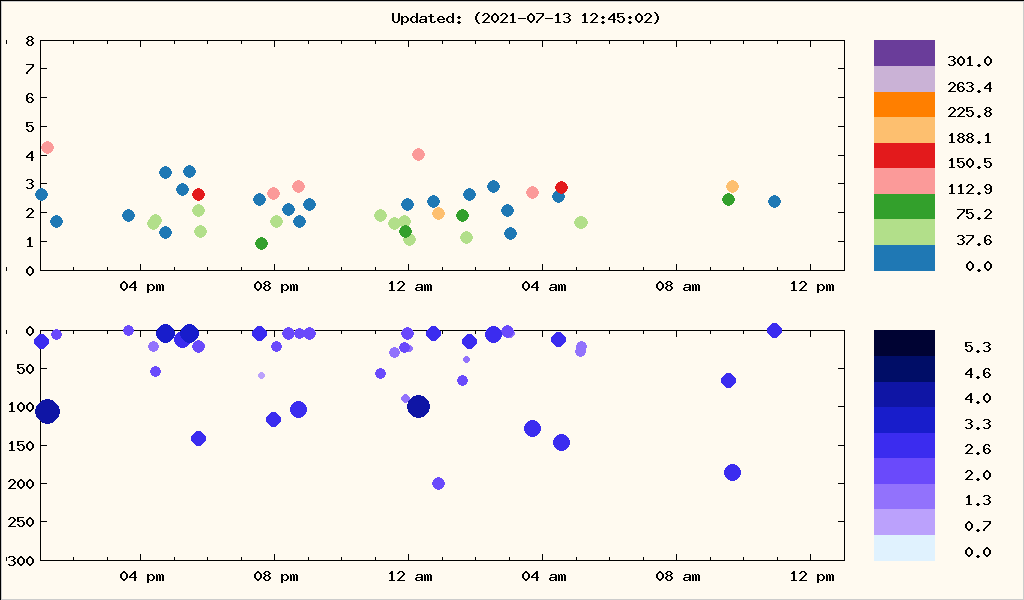
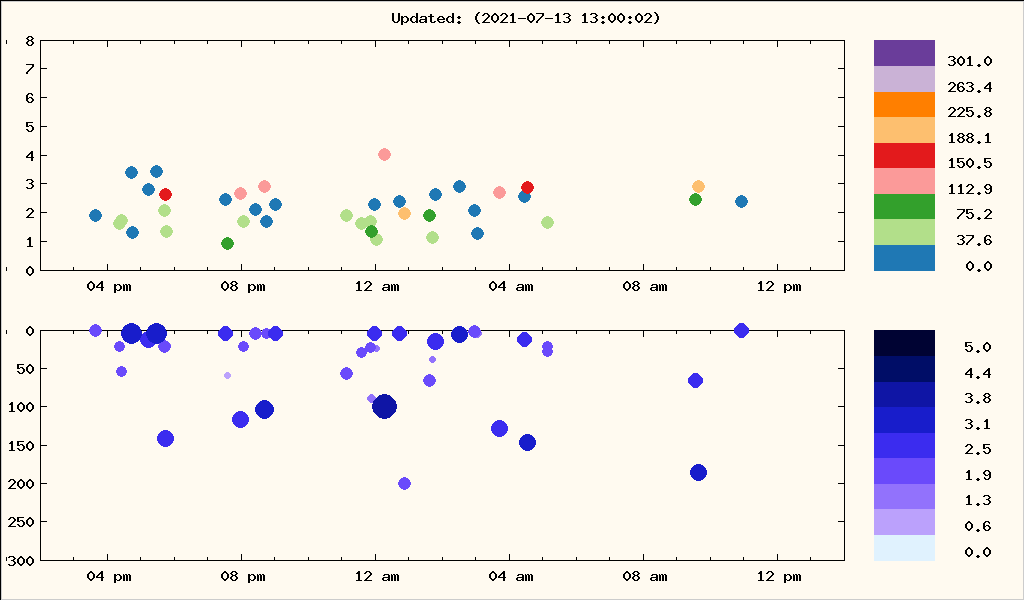
Snapshot

diff --git a/index.html b/index.html
@@ -65,8 +65,8 @@ td.depth { text-align: right; }
 </tr>
 <tr>
 	 <td align="left">&nbsp;</td> 
-	 <td align="left">12:45:02 am</td> 
-	 <td align="right">1:48:59</td> 
+	 <td align="left">01:00:02 pm</td> 
+	 <td align="right">2:03:59</td> 
 	 <td colspan="3">&nbsp;</td> 
 </tr>
 <tr>
